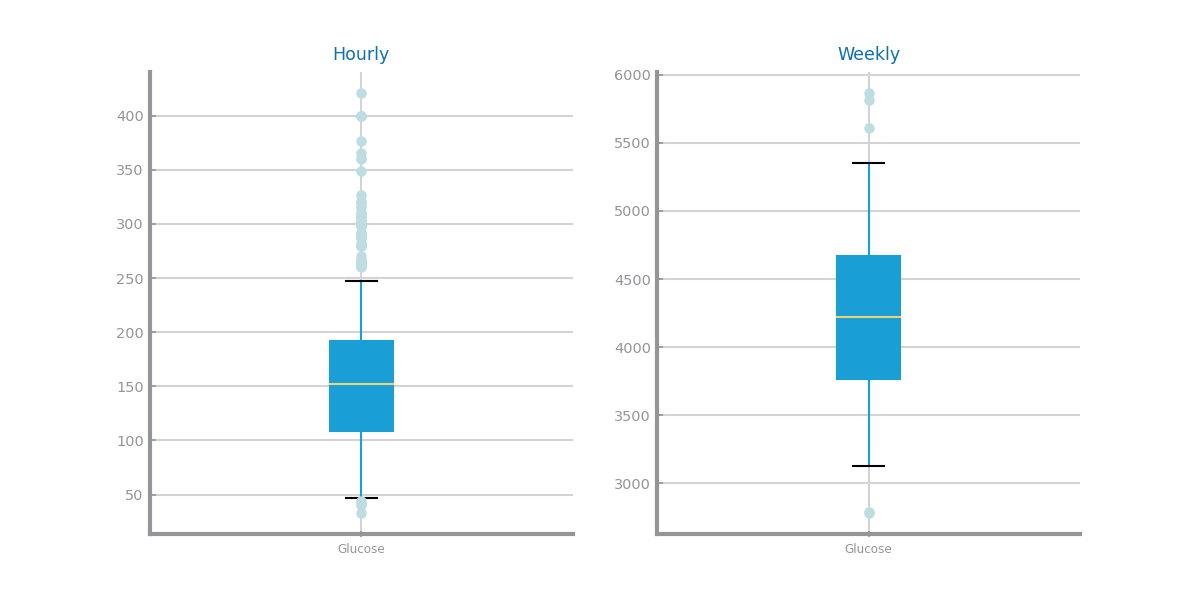
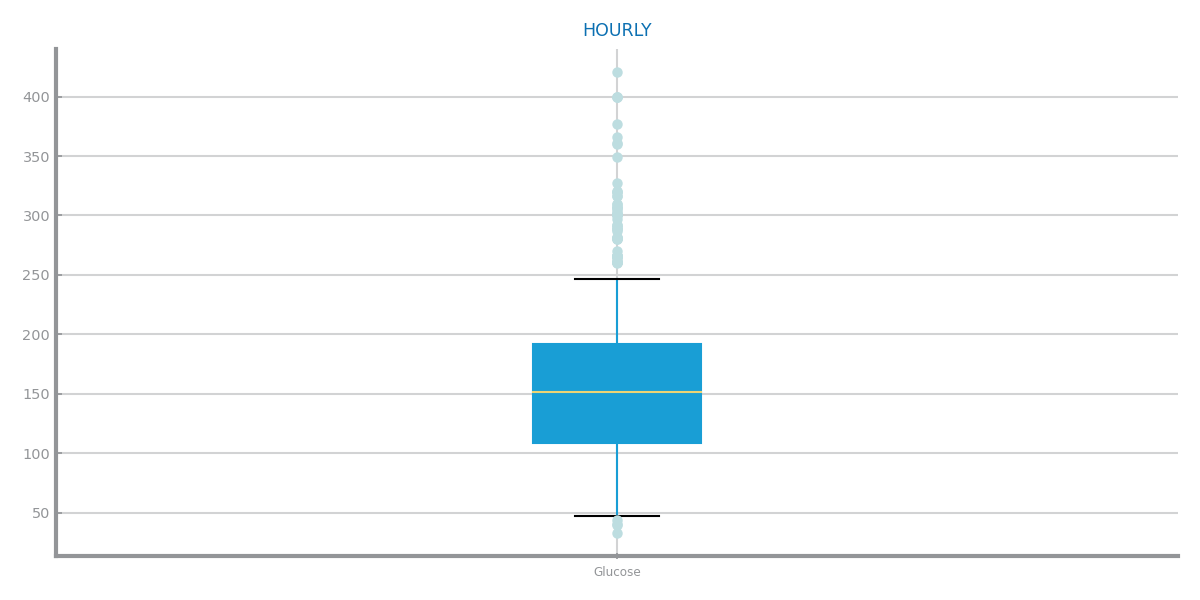
fix profiling dataset 1

Changed region(s): [[0.0308, 0.06, 0.9867, 0.96], [0.4933, 0.03, 0.555, 0.06], [0.2775, 0.06, 0.3083, 0.12]]

diff --git a/health_domain/forecasting/analysis_and_preparation/profiling.py b/health_domain/forecasting/analysis_and_preparation/profiling.py
@@ -43,11 +43,8 @@ savefig(f'images/profiling/dimensionality.png')
 # ---------------- #
 
 # Per hours
-hour_df = data.copy().groupby([data.index.hour]).mean()
-hour_df['timestamp'] = hour_df.index.drop_duplicates()
-hour_df.set_index('timestamp', drop=True, inplace=True)
 figure(figsize=(3*HEIGHT, HEIGHT))
-plot_series(hour_df, hours=True, title='Hourly glucose', x_label='timestamp', y_label='glucose')
+plot_series(data, title='Hourly glucose', x_label='timestamp', y_label='glucose')
 xticks(rotation = 45)
 tight_layout()
 savefig(f'images/profiling/granularity_hours.png')
@@ -75,15 +72,15 @@ savefig(f'images/profiling/granularity_weeks.png')
 # show()
 
 # Per months
-index = data.index.to_period('M')
-month_df = data.copy().groupby(index).mean()
-month_df['timestamp'] = index.drop_duplicates().to_timestamp()
-month_df.set_index('timestamp', drop=True, inplace=True)
-figure(figsize=(3*HEIGHT, HEIGHT))
-plot_series(month_df, title='Monthly glucose', x_label='timestamp', y_label='glucose')
-xticks(rotation = 45)
-tight_layout()
-savefig(f'images/profiling/granularity_months.png')
+# index = data.index.to_period('M')
+# month_df = data.copy().groupby(index).mean()
+# month_df['timestamp'] = index.drop_duplicates().to_timestamp()
+# month_df.set_index('timestamp', drop=True, inplace=True)
+# figure(figsize=(3*HEIGHT, HEIGHT))
+# plot_series(month_df, title='Monthly glucose', x_label='timestamp', y_label='glucose')
+# xticks(rotation = 45)
+# tight_layout()
+# savefig(f'images/profiling/granularity_months.png')
 # show()
 
 # It does not make sense to do the granularity per quarter since 
@@ -94,60 +91,71 @@ savefig(f'images/profiling/granularity_months.png')
 # Data Distribution #
 # ----------------- #
 
+index = data.index.to_period('D')
+day_df = data.copy().groupby(index).sum()
+day_df['timestamp'] = index.drop_duplicates().to_timestamp()
+day_df.set_index('timestamp', drop=True, inplace=True)
+
 index = data.index.to_period('W')
 week_df = data.copy().groupby(index).sum()
 week_df['timestamp'] = index.drop_duplicates().to_timestamp()
 week_df.set_index('timestamp', drop=True, inplace=True)
 
-_, axs = subplots(1, 2, figsize=(2*HEIGHT, HEIGHT/2))
+_, axs = subplots(1, 3, figsize=(2*HEIGHT, HEIGHT/2))
 axs[0].grid(False)
 axs[0].set_axis_off()
 axs[0].set_title('HOURLY', fontweight="bold")
 axs[0].text(0, 0, str(data.describe()))
+
 axs[1].grid(False)
 axs[1].set_axis_off()
-axs[1].set_title('WEEKLY', fontweight="bold")
-axs[1].text(0, 0, str(week_df.describe()))
+axs[1].set_title('DAILY', fontweight="bold")
+axs[1].text(0, 0, str(day_df.describe()))
+
+axs[2].grid(False)
+axs[2].set_axis_off()
+axs[2].set_title('WEEKLY', fontweight="bold")
+axs[2].text(0, 0, str(week_df.describe()))
+
+tight_layout()
 savefig(f'images/profiling/distribution_analysis.png')
 # show()
 
-_, axs = subplots(1, 2, figsize=(2*HEIGHT, HEIGHT))
-axs[0].title.set_text('Hourly')
-data.boxplot(ax=axs[0])
-axs[1].title.set_text('Weekly')
-week_df.boxplot(ax=axs[1])
+# Boxplot for the most atomic granularity
+_, axs = subplots(1, 1, figsize=(2*HEIGHT, HEIGHT))
+axs.title.set_text('HOURLY')
+data.boxplot(ax=axs)
+tight_layout()
 savefig(f'images/profiling/distribution.png')
 # show()
-
 
 # ---------------------- #
 # Variables Distribution #
 # ---------------------- #
 
-bins = ('day', 'week', 'month')
-_, axs = subplots(1, len(bins), figsize=(len(bins)*HEIGHT*3, 1.5*HEIGHT))
+bins = ('hour', 'day', 'week')
+_, axs = subplots(1, len(bins), figsize=(len(bins)*HEIGHT*6, 3*HEIGHT))
+
+# Per hours
+index = data.index.to_period('H')
+counts = index.to_series().astype(str).value_counts()
+bar_chart(counts.index.to_list(), counts.values, ax=axs[0], title='Histogram for hourly Glucose: 596 bins', xlabel='glucose', ylabel='nr records', percentage=False)
+axs[0].tick_params(labelrotation=90)
 
 # Per days
-day_df = data.copy().groupby(data.index.date)
+index = data.index.to_period('D')
 counts = index.to_series().astype(str).value_counts()
-bar_chart(counts.index.to_list(), counts.values, ax=axs[0], title='Histogram for daily Glucose: 149 bins', xlabel='glucose', ylabel='nr records', percentage=False)
-axs[0].tick_params(labelrotation=90)
+bar_chart(counts.index.to_list(), counts.values, ax=axs[1], title='Histogram for daily Glucose: 149 bins', xlabel='glucose', ylabel='nr records', percentage=False)
+axs[1].tick_params(labelrotation=90)
 
 # Per weeks
 index = data.index.to_period('W')
 counts = index.to_series().astype(str).value_counts()
-bar_chart(counts.index.to_list(), counts.values, ax=axs[1], title='Histogram for weekly Glucose: 22 bins', xlabel='glucose', ylabel='nr records', percentage=False)
-axs[1].tick_params(labelrotation=90)
-
-# Per months
-index = data.index.to_period('M')
-counts = index.to_series().astype(str).value_counts()
-bar_chart(counts.index.to_list(), counts.values, ax=axs[2], title='Histogram for montly Glucose: 5 bins', xlabel='glucose', ylabel='nr records', percentage=False)
+bar_chart(counts.index.to_list(), counts.values, ax=axs[2], title='Histogram for weekly Glucose: 22 bins', xlabel='glucose', ylabel='nr records', percentage=False)
 axs[2].tick_params(labelrotation=90)
 
 tight_layout()
 savefig(f'images/profiling/variable_distribution_granularities.png')
-
 
 # ----------------- #
 # Data Stationarity #
